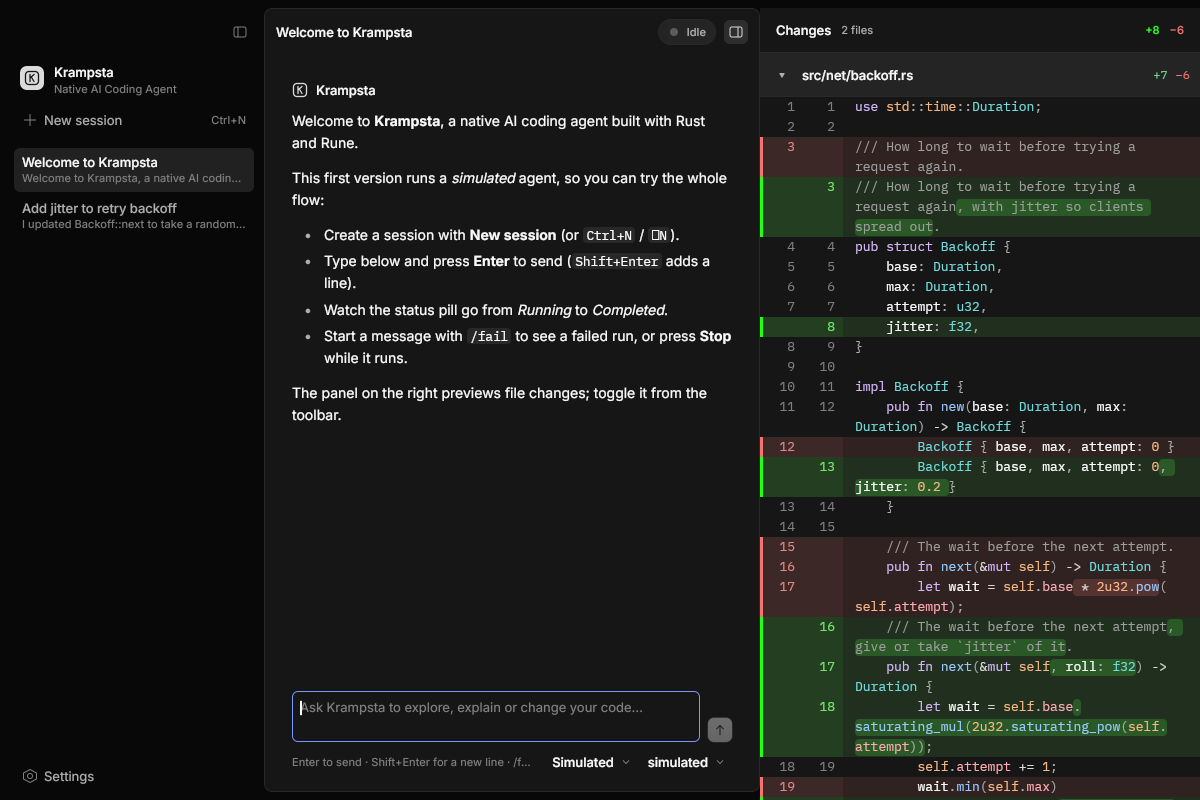
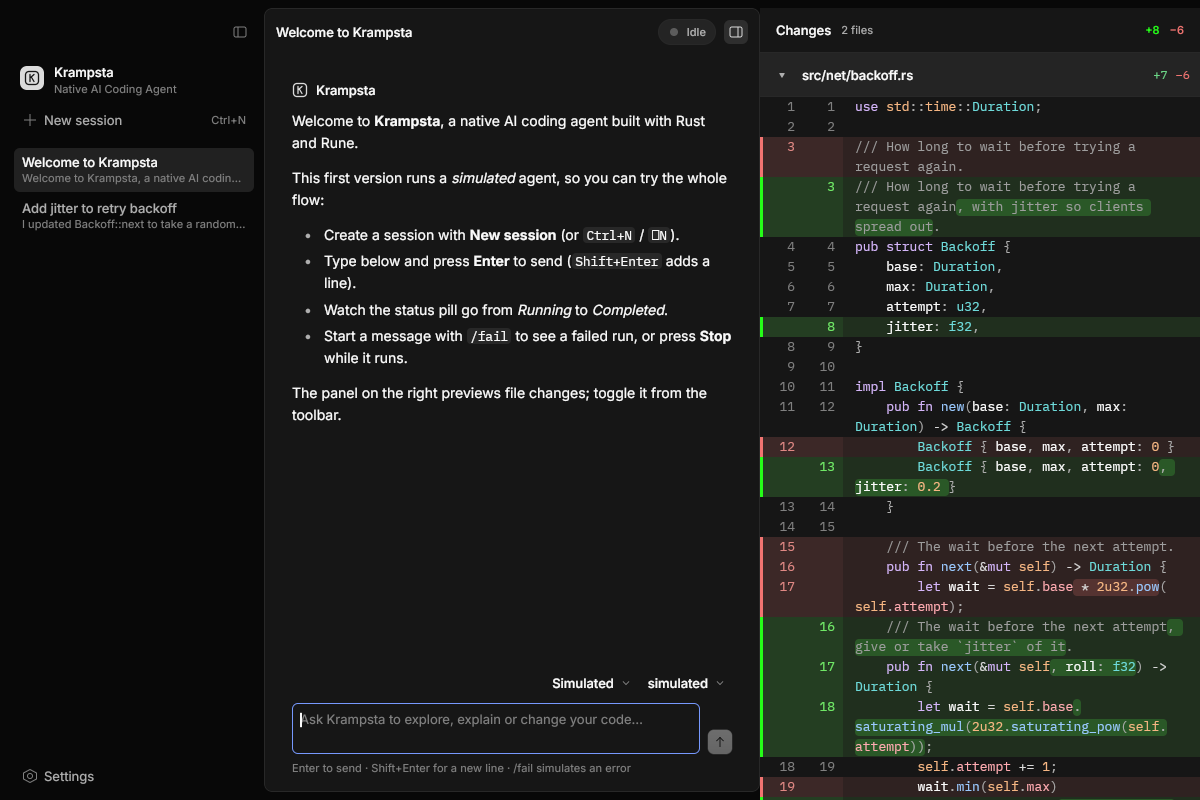
Move the pickers above the composer, on the right
The provider, model and effort pickers now sit above the text field,
aligned right over the send button; the hint (or a selection's error)
takes the whole line under the field instead of sharing it.

Changed region(s): [[0.2467, 0.875, 0.6167, 0.9688], [0.2467, 0.8438, 0.5858, 0.9062]]

diff --git a/crates/krampsta-ui/src/components/composer.rs b/crates/krampsta-ui/src/components/composer.rs
@@ -63,18 +63,12 @@ pub fn view(s: &KrampstaApp, running: bool, k: &Kit, layer: &mut Vec<El>) -> El 
     if s.engine.takes_effort() {
         pickers = pickers.child(engine_picker::effort(s, k, layer, Place::Composer));
     }
-    let footer = row()
-        .w_full()
-        .gap(12.0)
-        .items_center()
-        .justify_between()
-        .child(hint.key(keys::COMPOSER_HINT).truncate().shrink().min_w(0.0))
-        .child(pickers);
-
+    // Pickers above the field, on the right; the hint under it.
     col()
         .w_full()
         .max_w(820.0)
         .gap(8.0)
+        .child(row().w_full().items_center().justify_end().child(pickers))
         .child(row().w_full().gap(8.0).items_end().child(col().grow(1.0).min_w(0.0).child(field)).child(action))
-        .child(footer)
+        .child(row().w_full().child(hint.key(keys::COMPOSER_HINT).truncate().shrink().min_w(0.0)))
 }
